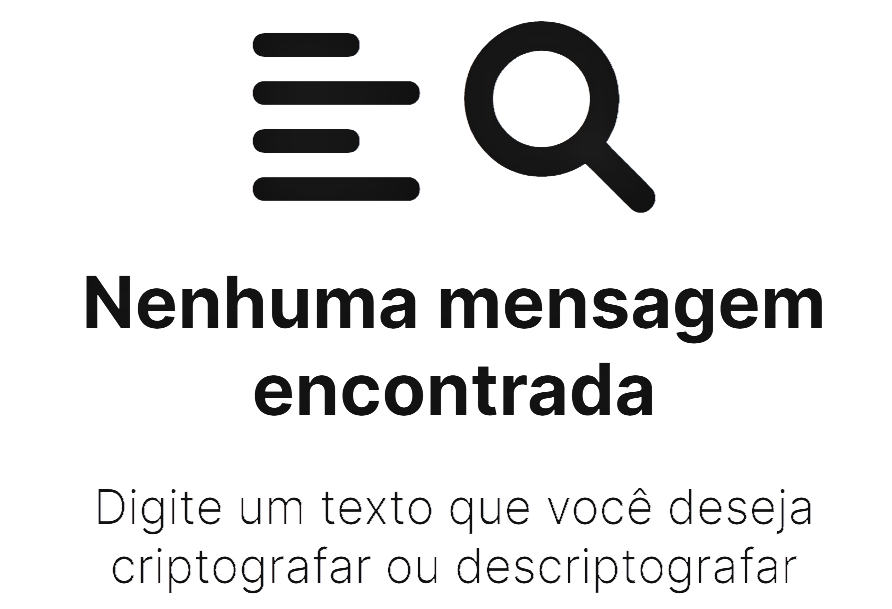
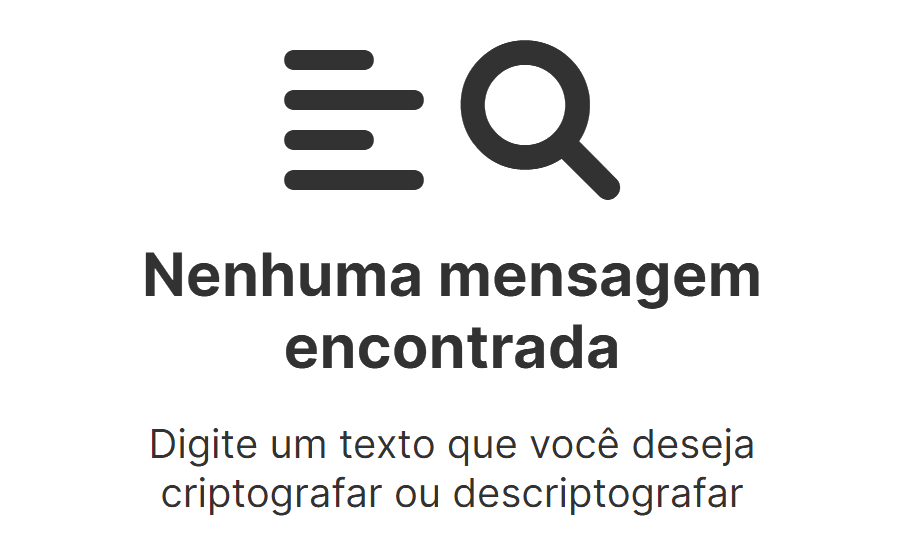
responsive

diff --git a/assets/style.css b/assets/style.css
@@ -2,12 +2,12 @@
 
 /* Variables */
 :root {
-    --bg-color: #f1f1f1;
-    --color: #ff5b3e;
-    --lcolor: #ff8974;
-    --dcolor: #ff5b3e9c;
+    --bg-color: floralwhite;
+    --color: orchid;
+    --lcolor: plum;
+    --dcolor: mediumorchid;
     --text-color: #323232;
-    --btn-bg: #f1f1f1;
+    --btn-bg: floralwhite;
 }
 
 /* General */
@@ -16,7 +16,6 @@
     margin: 0;
     padding: 0;
     box-sizing: border-box;
-    color: var(--text-color);
     font-family: 'Inter', sans-serif;
     text-decoration: none;
 }
@@ -26,65 +25,64 @@ body {
     display: flex;
     flex-direction: column;
     align-items: center;
-    justify-content: center;
-    height: 100vh;
+    height: 100%;
     width: 100vw;
 }
 
 main {
     display: flex;
-    margin: 25px 10px 0 10px;
-    height: 90%;
+    flex-direction: column;
+    color: var(--text-color);
+    padding: 2em;
+    height: 100%;
     width: 100%;
-}
-
-#logo {
-    width: 10%;
 }
 
 #logo i{
     color: var(--color);
-    margin-left: 0.5em;
     font-size: 4em;
 }
 
 /* Encryptor */
 
 #encryptor {
-    height: 100%;
-    width: 60%;
+    margin-top: 0.5em;
+    text-align: center;
+    width: 100%;
 }
 
 .title {
     color: var(--color);
-    font-size: 3em;
+    font-size: 2.5em;
     font-weight: 700;
 }
 
 .text-input-container {
-    height: 65%;
+    width: 100%;
+    margin-top: 1em;
 }
 
-.text-input-container textarea {
+#text-input {
     background-color: transparent;
-    border: 1px solid;
+    border: 1px solid var(--text-color);
     border-radius: 1em;
+    display: block;
     font-size: 1.5em;
-    margin: 1em 0;
-    padding: 1.5em 1em;
-    resize: none;
-    height: 85%;
-    width: 95%;
+    padding: 1.5em;
+    min-height: 12em;
+    width: 100%;
+    text-align: start;
 }
 
-::placeholder {
+#text-input[contenteditable]:empty::before {
+    content: "Digite aqui seu texto";
     color: var(--text-color);
 }
 
 .buttons-container {
     display: flex;
     flex-direction: column;
-    height: 20%;
+    margin: 1em 0;
 }
 
 .buttons-container p {
@@ -92,7 +90,8 @@ main {
 }
 
 .buttons-container button {
-    margin: 1em 1em 0 0;
+    margin-top: 1em;
+    width: 100%;
 }
 
 button {
@@ -102,56 +101,61 @@ button {
     font-size: 1em;
     font-weight: 300;
     padding: 1em 0em;
-    width: 13em;
 }
 
 button:hover {
-    background-color: var(--lcolor);
-    color: var(--text-color);
-    transition: 1s all;
+    background-color: var(--dcolor);
+    color: var(--bg-color);
+    transition: 1s;
+}
+
+button:active{
+    background-color: var(--bg-color);
 }
 
 .dark-btn {
     background-color: var(--color);
-    color: var(--btn-bg);
+    color: var(--bg-color);
 }
 
 .light-btn {
-    background-color: var(--btn-bg);
-    color: var(--color);
+    background-color: var(--bg-color);
+    color: var(--dcolor);
 }
 
 /* Text Output */
 
 .text-output-container {
-    background-color: var(--dcolor);
+    background-color: var(--lcolor);
     border-radius: 1em;
     display: flex;
     flex-direction: column;
     align-items: center;
     justify-content: center;
     position: relative;
-    height: 95%;
-    width: 25%;
+    min-height: 10em;
+    width: 100%;
 }
 
 #text-output {
     border: none;
     background-color: transparent;
+    color: var(--text-color);
     font-size: 1.2em;
     padding: 2em;
     resize: none;
-    height: 90%;
+    word-wrap: break-word;
     width: 100%;
 }
 
 .text-output-container img{
     position: absolute;
-    width: 90%;
+    height: 90%;
 }
 
 .text-output-container button{
-    margin-bottom: 1em;
+    margin: 1em 0;
+    width: 70%;
 }
 
 /* Footer */
@@ -159,11 +163,17 @@ button:hover {
 footer {
     display: flex;
     background-color: var(--dcolor);
+    color: var(--bg-color);
     align-items: center;
-    justify-content: center;
+    justify-content: space-evenly;
     font-size: 1em;
-    gap: 50px;
-    height: 10%;
-    width: 100%;
+    gap: 3em;
     text-align: center;
+    padding: 1em;
+    height: 4em;
+    width: 100%;
+}
+
+footer a{
+    color: var(--bg-color);
 }

diff --git a/assets/script.js b/assets/script.js
@@ -11,11 +11,11 @@ encryptButton.onclick = encryptText;
 decryptButton.onclick = decryptText;
 
 function encryptText() {
-    let text = input.value.toLowerCase();
+    let text = input.innerText.toLowerCase();
     let textArray = text.split('');
     let result;
 
-    if (input.value === '') {
+    if (input.innerText === '') {
         input.placeholder = 'Digite um texto primeiro!';
     } else {
         for (let i = 0; i < textArray.length; i++) {
@@ -33,21 +33,21 @@ function encryptText() {
         }
         result = textArray.join('');
         noMsgImg.style.display = 'none';
-        output.value = result;
+        output.innerText = result;
         createCopyButton();
     }
 }
 
 function decryptText() {
-    let text = input.value.toLowerCase();
+    let text = input.innerText.toLowerCase();
     let result;
 
-    if (input.value === '') {
+    if (input.innerText === '') {
         input.placeholder = 'Digite um texto primeiro!';
     } else {
         result = text.replace(/ai/g, 'a').replace(/enter/g, 'e').replace(/imes/g, 'i').replace(/ober/g, 'o').replace(/ufat/g, 'u');
         noMsgImg.style.display = 'none';
-        output.value = result;
+        output.innerText = result;
         createCopyButton();
     }
 }
@@ -66,6 +66,6 @@ function createCopyButton() {
 }
 
 async function copyToClipboard(){
-    await navigator.clipboard.writeText(output.value);
+    await navigator.clipboard.writeText(output.innerText);
     alert('Texto copiado para a área de transferência.');
 }

diff --git a/assets/responsive.css b/assets/responsive.css
@@ -1,0 +1,73 @@
+/* Media queries */
+
+@media screen and (min-width: 768px) {
+    .buttons-container{
+        text-align: start;
+    }
+
+    .buttons-container button{
+        width: 49.5%;
+    }
+}
+
+@media screen and (min-width: 1024px){
+    body{
+        height: 100vh;
+    }
+
+    main{
+        flex-direction: row;
+        height: 90%;
+        width: 100%;
+    }
+
+    #logo {
+        width: 10%;
+    }
+
+    #encryptor {
+        height: 100%;
+        width: 65%;
+    }
+
+    .title{
+        text-align: start;
+    }
+
+    .text-input-container {
+        height: 60%;
+    }
+
+    #text-input{
+        height: 100%;
+        width: 95%;
+        overflow: auto;
+    }
+
+    .buttons-container button{
+        margin: 1em 1em 0 0;
+        width: 40%;
+    }
+
+    .text-output-container{
+        height: 100%;
+        width: 25%;
+    }
+
+    #text-output{
+        height: 90%;
+        width: 100%;
+        overflow: auto;
+    }
+
+    .text-output-container img{
+        height: auto;
+        width: 100%;
+    }
+
+    footer{
+        gap: 3em;
+        justify-content: center;
+        height: 10%;
+    }
+}

diff --git a/index.html b/index.html
@@ -7,6 +7,7 @@
     <meta name="viewport" content="width=device-width, initial-scale=1.0">
 
     <link rel="stylesheet" href="assets/style.css">
+    <link rel="stylesheet" href="assets/responsive.css">
     <link rel="shortcut icon" href="assets/logo.svg" type="image/x-icon">
 
     <script defer src="assets/script.js"></script>
@@ -25,7 +26,7 @@
                 <h1 class="title">Codificador de Texto</h1>
             </div>
             <div class="text-input-container">
-                <textarea id="text-input" placeholder="Digite seu texto aqui" autofocus></textarea>
+                <span id="text-input" role="textbox" contenteditable></span>
             </div>
             <div class="buttons-container">
                 <p class="notice">
@@ -41,7 +42,7 @@
 
         <div class="text-output-container">
             <img id="no-msg-img" src="assets/no-msg.png" alt="Nenhuma mensagem encontrada">
-            <textarea id="text-output" disabled></textarea>
+            <span id="text-output" role="textbox" contenteditable="false"></span>
         </div>
     </main>
 

diff --git a/README.md b/README.md
@@ -4,7 +4,9 @@ Projeto desenvolvido para o 1º Alura Challenge do programa Oracle Next Educatio
 
 O challenge consiste em contruir um decodificador de texto com JavaScript.
 
-![](screenshot.png)
+![]()
+
+### <center> Acesse o site clicando [aqui](https://joi-gn.github.io/codificador_de_texto_js/)
 
 ## O que foi utilizado
 Para estruturar o site foi utilizado HTML, para estilizar, CSS. E JavaScript foi utilizado para a parte interativa do site.
